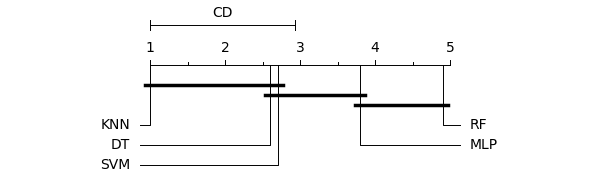
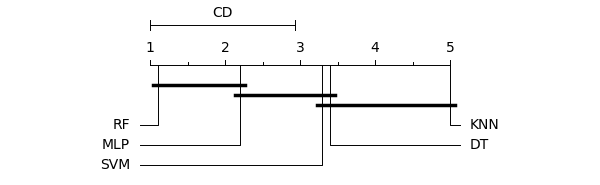
Fix regression for absences

diff --git a/regression-validation.py b/regression-validation.py
@@ -80,7 +80,6 @@ def search(X, y, n_splits, random_state, algorithms, title):
         score[algorithm] = []
     
     for algorithm, (clf, parameters) in algorithms.items():
-        predicted = y.copy()
         for train, test in kf.split(X, y):
             prep = StandardScaler()
             
@@ -91,7 +90,7 @@ def search(X, y, n_splits, random_state, algorithms, title):
             score[algorithm].append(perf(best.predict(prep.transform(X[test])), y[test]))
             
     df_metrics = pd.DataFrame.from_dict(score)        
-    df_score = pd.DataFrame.from_dict(score).rank(axis=1, ascending=False)
+    df_score = pd.DataFrame.from_dict(score).rank(axis=1, ascending=True)
     stat, p = friedmanchisquare(*[grp for idx, grp in df_score.iteritems()])
     print('Statistics=%.3f, p=%f' % (stat, p))
     # interpret
@@ -179,94 +178,94 @@ print("Desvio Padrao: ")
 print(df_G3.std())
 df_G3.to_csv('output-regression/df_metrics_G3.csv')
 
-# --- Absences Regression ---
-y = base['absences'].to_numpy()
+# # --- Absences Regression ---
+# y = base['absences'].to_numpy()
 
-# [G1, G2, G3]
-print("[G1, G2, G3]")
-X = base.drop(columns = ['absences']).to_numpy()
-df_absences_from_G1_G2_G3 = search(X,y,n_splits,random_state,algorithms,"absences from [G1, G2, G3]")
-print(df_absences_from_G1_G2_G3)
-print("Medias:")
-print(df_absences_from_G1_G2_G3.mean())
-print("Desvio Padrao: ")
-print(df_absences_from_G1_G2_G3.std())
-df_absences_from_G1_G2_G3.to_csv('output-regression/df_metrics_absences_from_G1_G2_G3.csv')
+# # [G1, G2, G3]
+# print("[G1, G2, G3]")
+# X = base.drop(columns = ['absences']).to_numpy()
+# df_absences_from_G1_G2_G3 = search(X,y,n_splits,random_state,algorithms,"absences from [G1, G2, G3]")
+# print(df_absences_from_G1_G2_G3)
+# print("Medias:")
+# print(df_absences_from_G1_G2_G3.mean())
+# print("Desvio Padrao: ")
+# print(df_absences_from_G1_G2_G3.std())
+# df_absences_from_G1_G2_G3.to_csv('output-regression/df_metrics_absences_from_G1_G2_G3.csv')
 
-# [G1, G2]
-print("[G1, G2]")
-X = base.drop(columns = ['absences', 'G3']).to_numpy()
-df_absences_from_G1_G2 = search(X,y,n_splits,random_state,algorithms,"absences from [G1, G2]")
-print(df_absences_from_G1_G2)
-print("Medias:")
-print(df_absences_from_G1_G2.mean())
-print("Desvio Padrao: ")
-print(df_absences_from_G1_G2.std())
-df_absences_from_G1_G2.to_csv('output-regression/df_metrics_absences_from_G1_G2.csv')
+# # [G1, G2]
+# print("[G1, G2]")
+# X = base.drop(columns = ['absences', 'G3']).to_numpy()
+# df_absences_from_G1_G2 = search(X,y,n_splits,random_state,algorithms,"absences from [G1, G2]")
+# print(df_absences_from_G1_G2)
+# print("Medias:")
+# print(df_absences_from_G1_G2.mean())
+# print("Desvio Padrao: ")
+# print(df_absences_from_G1_G2.std())
+# df_absences_from_G1_G2.to_csv('output-regression/df_metrics_absences_from_G1_G2.csv')
 
-# [G1, G3]
-print("[G1, G3]")
-X = base.drop(columns = ['absences', 'G2']).to_numpy()
-df_absences_from_G1_G3 = search(X,y,n_splits,random_state,algorithms,"absences from [G1, G3]")
-print(df_absences_from_G1_G3)
-print("Medias:")
-print(df_absences_from_G1_G3.mean())
-print("Desvio Padrao: ")
-print(df_absences_from_G1_G3.std())
-df_absences_from_G1_G3.to_csv('output-regression/df_metrics_absences_from_G1_G3.csv')
+# # [G1, G3]
+# print("[G1, G3]")
+# X = base.drop(columns = ['absences', 'G2']).to_numpy()
+# df_absences_from_G1_G3 = search(X,y,n_splits,random_state,algorithms,"absences from [G1, G3]")
+# print(df_absences_from_G1_G3)
+# print("Medias:")
+# print(df_absences_from_G1_G3.mean())
+# print("Desvio Padrao: ")
+# print(df_absences_from_G1_G3.std())
+# df_absences_from_G1_G3.to_csv('output-regression/df_metrics_absences_from_G1_G3.csv')
 
-# [G2, G3]
-print("[G2, G3]")
-X = base.drop(columns = ['absences', 'G1']).to_numpy()
-df_absences_from_G2_G3 = search(X,y,n_splits,random_state,algorithms,"absences from [G2, G3]")
-print(df_absences_from_G2_G3)
-print("Medias:")
-print(df_absences_from_G2_G3.mean())
-print("Desvio Padrao: ")
-print(df_absences_from_G2_G3.std())
-df_absences_from_G2_G3.to_csv('output-regression/df_metrics_absences_from_G2_G3.csv')
+# # [G2, G3]
+# print("[G2, G3]")
+# X = base.drop(columns = ['absences', 'G1']).to_numpy()
+# df_absences_from_G2_G3 = search(X,y,n_splits,random_state,algorithms,"absences from [G2, G3]")
+# print(df_absences_from_G2_G3)
+# print("Medias:")
+# print(df_absences_from_G2_G3.mean())
+# print("Desvio Padrao: ")
+# print(df_absences_from_G2_G3.std())
+# df_absences_from_G2_G3.to_csv('output-regression/df_metrics_absences_from_G2_G3.csv')
 
-# [G1]
-print("[G1]")
-X = base.drop(columns = ['absences', 'G3', 'G2']).to_numpy()
-df_absences_from_G1 = search(X,y,n_splits,random_state,algorithms,"absences from [G1]")
-print(df_absences_from_G1)
-print("Medias:")
-print(df_absences_from_G1.mean())
-print("Desvio Padrao: ")
-print(df_absences_from_G1.std())
-df_absences_from_G1.to_csv('output-regression/df_metrics_absences_from_G1.csv')
+# # [G1]
+# print("[G1]")
+# X = base.drop(columns = ['absences', 'G3', 'G2']).to_numpy()
+# df_absences_from_G1 = search(X,y,n_splits,random_state,algorithms,"absences from [G1]")
+# print(df_absences_from_G1)
+# print("Medias:")
+# print(df_absences_from_G1.mean())
+# print("Desvio Padrao: ")
+# print(df_absences_from_G1.std())
+# df_absences_from_G1.to_csv('output-regression/df_metrics_absences_from_G1.csv')
 
-# [G2]
-print("[G2]")
-X = base.drop(columns = ['absences', 'G3', 'G1']).to_numpy()
-df_absences_from_G2 = search(X,y,n_splits,random_state,algorithms,"absences from [G2]")
-print(df_absences_from_G2)
-print("Medias:")
-print(df_absences_from_G2.mean())
-print("Desvio Padrao: ")
-print(df_absences_from_G2.std())
-df_absences_from_G2.to_csv('output-regression/df_metrics_absences_from_G2.csv')
+# # [G2]
+# print("[G2]")
+# X = base.drop(columns = ['absences', 'G3', 'G1']).to_numpy()
+# df_absences_from_G2 = search(X,y,n_splits,random_state,algorithms,"absences from [G2]")
+# print(df_absences_from_G2)
+# print("Medias:")
+# print(df_absences_from_G2.mean())
+# print("Desvio Padrao: ")
+# print(df_absences_from_G2.std())
+# df_absences_from_G2.to_csv('output-regression/df_metrics_absences_from_G2.csv')
 
-# [G3]
-print("[G3]")
-X = base.drop(columns = ['absences', 'G2', 'G1']).to_numpy()
-df_absences_from_G3 = search(X,y,n_splits,random_state,algorithms,"absences from [G3]")
-print(df_absences_from_G3)
-print("Medias:")
-print(df_absences_from_G3.mean())
-print("Desvio Padrao: ")
-print(df_absences_from_G3.std())
-df_absences_from_G3.to_csv('output-regression/df_metrics_absences_from_G3.csv')
+# # [G3]
+# print("[G3]")
+# X = base.drop(columns = ['absences', 'G2', 'G1']).to_numpy()
+# df_absences_from_G3 = search(X,y,n_splits,random_state,algorithms,"absences from [G3]")
+# print(df_absences_from_G3)
+# print("Medias:")
+# print(df_absences_from_G3.mean())
+# print("Desvio Padrao: ")
+# print(df_absences_from_G3.std())
+# df_absences_from_G3.to_csv('output-regression/df_metrics_absences_from_G3.csv')
 
-# []
-print("[]")
-X = base.drop(columns = ['absences', 'G2', 'G1', 'G3']).to_numpy()
-df_absences = search(X,y,n_splits,random_state,algorithms,"absences from []")
-print(df_absences)
-print("Medias:")
-print(df_absences.mean())
-print("Desvio Padrao: ")
-print(df_absences.std())
-df_absences.to_csv('output-regression/df_metrics_absences.csv')
+# # []
+# print("[]")
+# X = base.drop(columns = ['absences', 'G2', 'G1', 'G3']).to_numpy()
+# df_absences = search(X,y,n_splits,random_state,algorithms,"absences from []")
+# print(df_absences)
+# print("Medias:")
+# print(df_absences.mean())
+# print("Desvio Padrao: ")
+# print(df_absences.std())
+# df_absences.to_csv('output-regression/df_metrics_absences.csv')
 

diff --git a/RNA-absences.py b/RNA-absences.py
@@ -1,77 +1,104 @@
-#!env python
+#!python
+# -*- coding: utf-8 -*-
 
-# Import libs
 import pandas as pd
-import numpy as np
-
-def RNA_Regression(dataV, targetV, seed, algorithm, max_iteractions, es):
-    # Regression
-    data_train, data_test, target_train, target_test = train_test_split(dataV, targetV, random_state=seed, test_size=0.1)
-    regression = MLPRegressor(random_state=seed, early_stopping=es, max_iter=max_iteractions, solver=algorithm).fit(data_train, target_train)
-    
-    # Regression Score
-    score = regression.score(data_test, target_test)
-    
-    # Square Mean Error
-    target_pred = regression.predict(data_test)
-    sqe = mean_squared_error(target_test, target_pred)
-    return (sqe, score)
-
-# Import data
-data_filename = "dados/pre_processed_data.csv"
-data = pd.read_csv(data_filename)
-
-# Separating target attribute
-target = data['absences']
-data = data.drop(columns=['absences'])
-original = data
-
-# Scikit Learn MLP Regression
-from sklearn.neural_network import MLPRegressor
 from sklearn.model_selection import train_test_split
-from sklearn.metrics import mean_squared_error
+from sklearn.neural_network import MLPRegressor
+from sklearn.metrics import mean_absolute_error, mean_squared_error
+from math import sqrt
+from sklearn.preprocessing import StandardScaler
 
-# My training
-seed = 1
-algorithm = 'adam' # 'adam', 'sgd', 'lbfgs'
-max_iteractions = 10000
-early_stopping = True
+def treinamento(test_size, max_iter, solver, activation, random_state, verbose, tol):
+    previsores_treinamento, previsores_teste, y_treinamento, y_teste = train_test_split(previsores, y, test_size=test_size, random_state=4)
+    
+    prep = StandardScaler()       
+    prep.fit(previsores_treinamento)
+    
+    regressor = MLPRegressor(verbose = verbose,
+                                  max_iter=max_iter,
+                                  solver = solver,
+                                  activation=activation,
+                                  tol=tol,
+                                  random_state=random_state,
+                                  )
+    
+    regressor.fit(prep.transform(previsores_treinamento), y_treinamento)
+    previsoes = regressor.predict(prep.transform(previsores_teste))
+    
+    mse = mean_squared_error(y_teste, previsoes)
+    score = regressor.score(prep.transform(previsores_teste), y_teste)
+    return (mse, score)
 
-# {G1, G2, G3}
-(sqe, score) = RNA_Regression(data, target, seed, algorithm, max_iteractions, early_stopping)
-print(f"[G1, G2, G3] - SQE: {sqe:.5f}    |    Score: {score:.5f}")
+#base = pd.read_csv('dados/pre_processed_data.csv')
+#y = base['G3'].values
 
-# {G1, G2}
-data = original.drop(columns=['G3'])
-(sqe, score) = RNA_Regression(data, target, seed, algorithm, max_iteractions, early_stopping)
-print(f"[G1, G2]     - SQE: {sqe:.5f}    |    Score: {score:.5f}")
+test_size = 0.2
+max_iter = 1500
+solver = 'adam'
+activation = 'relu'
+random_state = 4
+verbose = False
+tol = 1e-5
 
-# {G1, G3}
-data = original.drop(columns=['G2'])
-(sqe, score) = RNA_Regression(data, target, seed, algorithm, max_iteractions, early_stopping)
-print(f"[G1, G3]     - SQE: {sqe:.5f}    |    Score: {score:.5f}")
+base = pd.read_csv('dados/student-por.csv', sep = ";")
+base = base.drop(['school'], axis=1)
+base = base.replace(['LE3', 'GT3'], [0,1])
+items = ['sex', 'address','Pstatus','Mjob','Fjob','reason','guardian','schoolsup','famsup','paid','activities','nursery','higher',
+         'internet','romantic']
 
-# {G2, G3}
-data = original.drop(columns=['G1'])
-(sqe, score) = RNA_Regression(data, target, seed, algorithm, max_iteractions, early_stopping)
-print(f"[G2, G3]     - SQE: {sqe:.5f}    |    Score: {score:.5f}")
+for item in items:
+    base = pd.concat([base,pd.get_dummies(base[item], prefix=item)],axis=1)
+    base = base.drop([item],axis=1)
 
-# {G1}
-data = original.drop(columns=['G2', 'G3'])
-(sqe, score) = RNA_Regression(data, target, seed, algorithm, max_iteractions, early_stopping)
-print(f"[G1]         - SQE: {sqe:.5f}    |    Score: {score:.5f}")
+y = base['absences'].values
 
-# {G2}
-data = original.drop(columns=['G1', 'G3'])
-(sqe, score) = RNA_Regression(data, target, seed, algorithm, max_iteractions, early_stopping)
-print(f"[G2]         - SQE: {sqe:.5f}    |    Score: {score:.5f}")
 
-# {G3}
-data = original.drop(columns=['G1', 'G2'])
-(sqe, score) = RNA_Regression(data, target, seed, algorithm, max_iteractions, early_stopping)
-print(f"[G3]         - SQE: {sqe:.5f}    |    Score: {score:.5f}")
+# [G1, G2, G3]
+print(f"[G1, G2, G3]:\n")
+previsores = base.drop(columns=['absences']).values
+precisao_1, score_1 = treinamento(test_size, max_iter, solver, activation, random_state, verbose, tol)
 
-# {}
-data = original.drop(columns=['G1', 'G2', 'G3'])
-(sqe, score) = RNA_Regression(data, target, seed, algorithm, max_iteractions, early_stopping)
-print(f"[]           - SQE: {sqe:.5f}    |    Score: {score:.5f}")
+print(f"MSE: {precisao_1} Score: {score_1}\n")
+
+# [G1, G2]
+print(f"[G1, G2]:\n")
+previsores = base.drop(columns=['absences','G3']).values
+precisao_2, score_2 = treinamento(test_size, max_iter, solver, activation, random_state, verbose, tol)
+print(f"MSE: {precisao_2} Score: {score_2}\n")
+
+    
+# [G2, G3]
+print(f"[G2, G3]:\n")
+previsores = base.drop(columns=['G1','absences']).values
+precisao_3, score_3 = treinamento(test_size, max_iter, solver, activation, random_state, verbose, tol)
+print(f"MSE: {precisao_3} Score: {score_3}\n")
+
+# [G1, G3]
+print(f"[G1, G3]:\n")
+previsores = base.drop(columns=['G2','absences']).values
+precisao_4, score_4 = treinamento(test_size, max_iter, solver, activation, random_state, verbose, tol)
+print(f"MSE: {precisao_4} Score: {score_4}\n")
+
+# [G1]
+print(f"[G1]:\n")
+previsores = base.drop(columns=['G3', 'G2','absences']).values
+precisao_5, score_5 = treinamento(test_size, max_iter, solver, activation, random_state, verbose, tol)
+print(f"MSE: {precisao_5} Score: {score_5}\n")
+
+# [G2]
+print(f"[G2]:\n")
+previsores = base.drop(columns=['G3', 'G1','absences']).values
+precisao_6, score_6 = treinamento(test_size, max_iter, solver, activation, random_state, verbose, tol)
+print(f"MSE: {precisao_6} Score: {score_6}\n")
+
+# [G1]
+print(f"[G3]:\n")
+previsores = base.drop(columns=['G1', 'G2','absences']).values
+precisao_7, score_7 = treinamento(test_size, max_iter, solver, activation, random_state, verbose, tol)
+print(f"MSE: {precisao_7} Score: {score_7}\n")
+
+# []
+print(f"[]:\n")
+previsores = base.drop(columns=['G1', 'G3', 'G2','absences']).values
+precisao_8, score_8 = treinamento(test_size, max_iter, solver, activation, random_state, verbose, tol)
+print(f"MSE: {precisao_8} Score: {score_8}\n")
